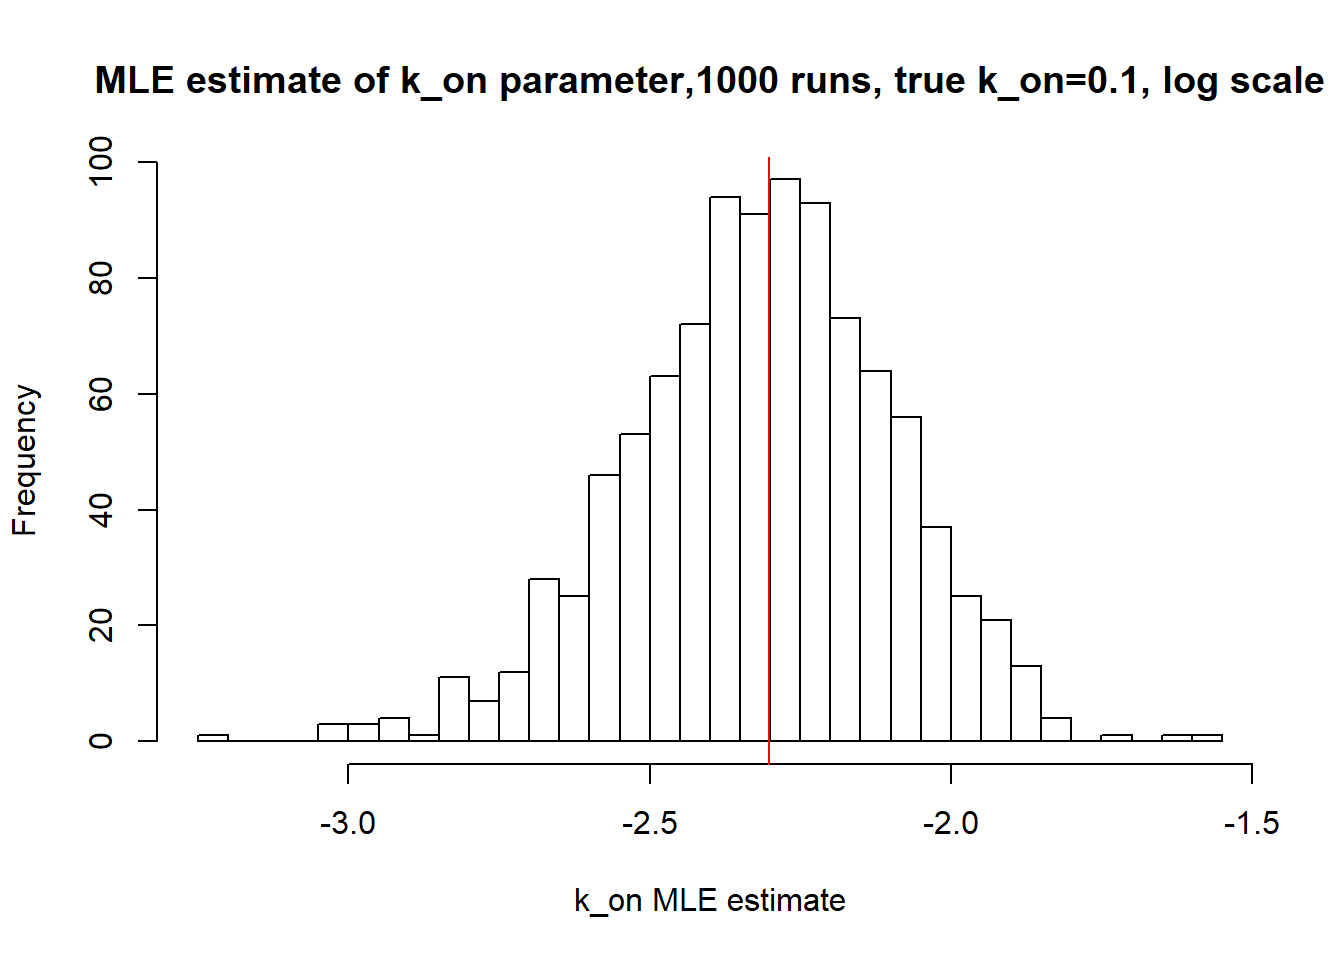
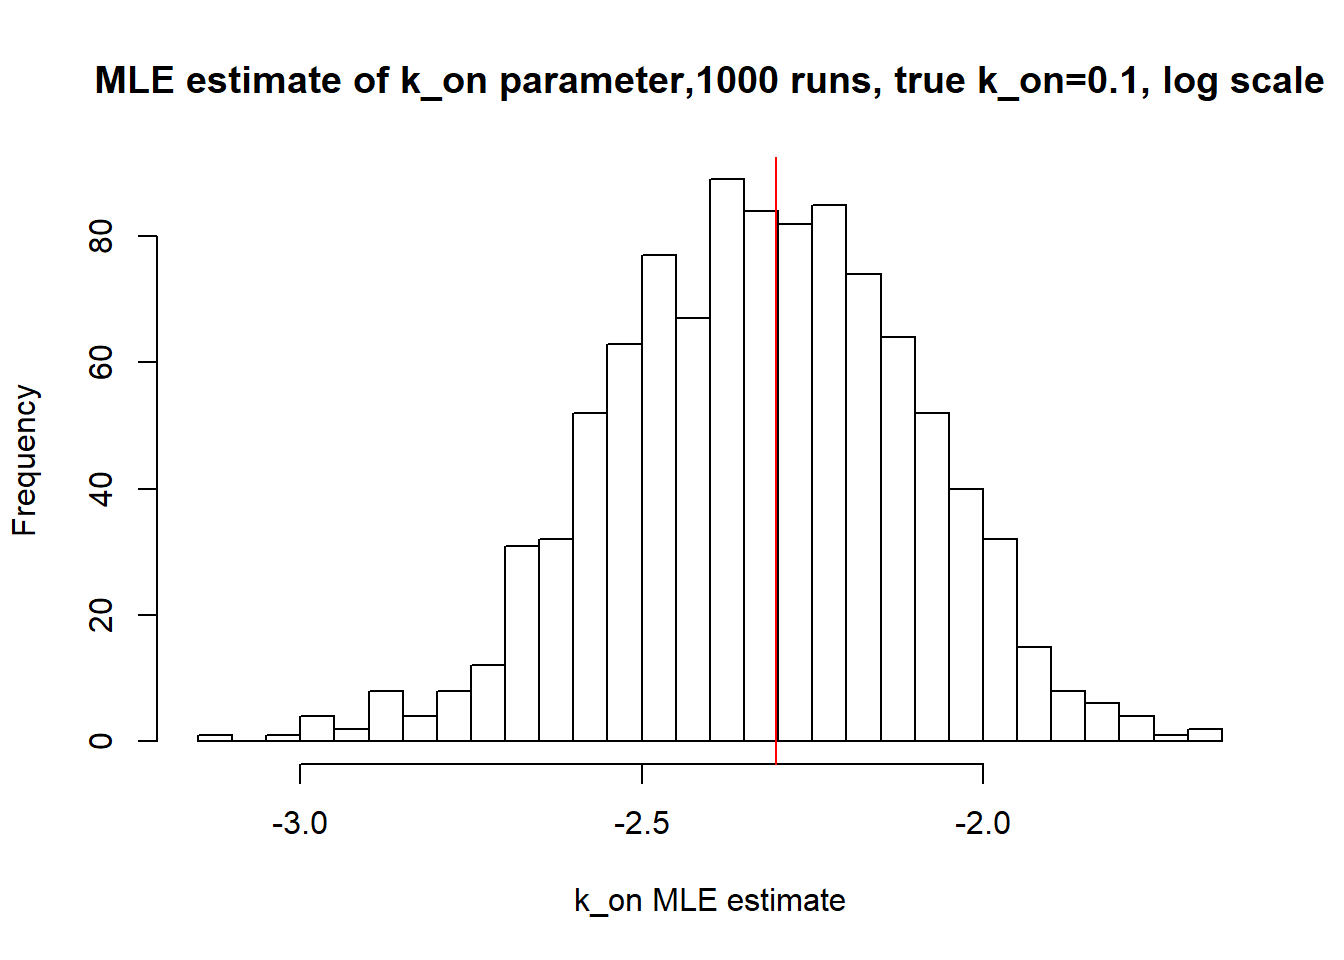
Build site.

diff --git a/docs/MLE_estimates.html b/docs/MLE_estimates.html
@@ -459,10 +459,10 @@ analysis/MLE.py
 <div class="panel panel-default">
 <div class="panel-heading">
 <p class="panel-title">
-<a data-toggle="collapse" data-parent="#workflowr-checks" href="#strongRepositoryversionstrongahrefhttpsgithubcomMargareth2407ThesissingleRNAtreed35b4d23e23c9e0aa3e093ec71a4104aa87ba75etargetblankd35b4d2a"> <span class="glyphicon glyphicon-ok text-success" aria-hidden="true"></span> <strong>Repository version:</strong> <a href="https://github.com/Margareth2407/Thesis_single_RNA/tree/d35b4d23e23c9e0aa3e093ec71a4104aa87ba75e" target="_blank">d35b4d2</a> </a>
+<a data-toggle="collapse" data-parent="#workflowr-checks" href="#strongRepositoryversionstrongahrefhttpsgithubcomMargareth2407ThesissingleRNAtreefca9dc316366c141a6f87451b73e5bd2da6a3c01targetblankfca9dc3a"> <span class="glyphicon glyphicon-ok text-success" aria-hidden="true"></span> <strong>Repository version:</strong> <a href="https://github.com/Margareth2407/Thesis_single_RNA/tree/fca9dc316366c141a6f87451b73e5bd2da6a3c01" target="_blank">fca9dc3</a> </a>
 </p>
 </div>
[2 lines of base64/hex data omitted]
 <div class="panel-body">
 <p>
 Great! You are using Git for version control. Tracking code development and connecting the code version to the results is critical for reproducibility. The version displayed above was the version of the Git repository at the time these results were generated. <br><br> Note that you need to be careful to ensure that all relevant files for the analysis have been committed to Git prior to generating the results (you can use <code>wflow_publish</code> or <code>wflow_git_commit</code>). workflowr only checks the R Markdown file, but you know if there are other scripts or data files that it depends on. Below is the status of the Git repository when the results were generated:
@@ -474,7 +474,6 @@ Ignored files:
     Ignored:    .Rproj.user/
     Ignored:    analysis/.RData
     Ignored:    analysis/.Rhistory
-    Ignored:    analysis/figure/
 
 Untracked files:
     Untracked:  analysis/MLE_bootstrap.py
@@ -512,44 +511,44 @@ There are no past versions. Publish this analysis with <code>wflow_publish()</co
 <div id="i-small-k_on-and-k_off-case" class="section level2">
 <h2>I) Small <span class="math inline">\(k_{on}\)</span> and <span class="math inline">\(k_{off}\)</span> case:</h2>
 <p><img src="figure/MLE_estimates.Rmd/unnamed-chunk-2-1.png" width="672" style="display: block; margin: auto;" /></p>
-<pre><code>[1] &quot;true k_on is 0.1; k_on mean 0.101 k_on median 0.1&quot;</code></pre>
+<pre><code>[1] &quot;true k_on is 0.1; k_on mean 0.1 k_on median 0.098&quot;</code></pre>
 <p><img src="figure/MLE_estimates.Rmd/unnamed-chunk-2-2.png" width="672" style="display: block; margin: auto;" /></p>
-<pre><code>[1] &quot;true k_off is 0.1; k_off mean 0.103 k_off median 0.1&quot;</code></pre>
+<pre><code>[1] &quot;true k_off is 0.1; k_off mean 0.101 k_off median 0.096&quot;</code></pre>
 <p><img src="figure/MLE_estimates.Rmd/unnamed-chunk-2-3.png" width="672" style="display: block; margin: auto;" /></p>
-<pre><code>[1] &quot;true k_r is 100; k_r mean 100.012 k_r median 99.961&quot;</code></pre>
+<pre><code>[1] &quot;true k_r is 100; k_r mean 99.956 k_r median 99.973&quot;</code></pre>
 <p><img src="figure/MLE_estimates.Rmd/unnamed-chunk-2-4.png" width="672" style="display: block; margin: auto;" /><img src="figure/MLE_estimates.Rmd/unnamed-chunk-2-5.png" width="672" style="display: block; margin: auto;" /><img src="figure/MLE_estimates.Rmd/unnamed-chunk-2-6.png" width="672" style="display: block; margin: auto;" /></p>
 <p>Small <span class="math inline">\(k_{on}\)</span> and <span class="math inline">\(k_{off}\)</span> leads to bimodal distribution. As we see from histograms, mean and median MLE estimates are centered around true value.</p>
 </div>
 <div id="ii-large-k_on-and-k_off-case" class="section level2">
 <h2>II) Large <span class="math inline">\(k_{on}\)</span> and <span class="math inline">\(k_{off}\)</span> case:</h2>
 <p><img src="figure/MLE_estimates.Rmd/unnamed-chunk-3-1.png" width="672" style="display: block; margin: auto;" /></p>
-<pre><code>[1] &quot;true k_on is 10; k_on mean 11.387 k_on median 9.717&quot;</code></pre>
+<pre><code>[1] &quot;true k_on is 10; k_on mean 11.6 k_on median 9.995&quot;</code></pre>
 <p><img src="figure/MLE_estimates.Rmd/unnamed-chunk-3-2.png" width="672" style="display: block; margin: auto;" /></p>
-<pre><code>[1] &quot;true k_off is 10; k_off mean 63.487 k_off median 9.119&quot;</code></pre>
+<pre><code>[1] &quot;true k_off is 10; k_off mean 61.625 k_off median 9.543&quot;</code></pre>
 <p><img src="figure/MLE_estimates.Rmd/unnamed-chunk-3-3.png" width="672" style="display: block; margin: auto;" /></p>
-<pre><code>[1] &quot;true k_r is 100; k_r mean 227.561 k_r median 97.168&quot;</code></pre>
+<pre><code>[1] &quot;true k_r is 100; k_r mean 224.246 k_r median 99.161&quot;</code></pre>
 <p><img src="figure/MLE_estimates.Rmd/unnamed-chunk-3-4.png" width="672" style="display: block; margin: auto;" /><img src="figure/MLE_estimates.Rmd/unnamed-chunk-3-5.png" width="672" style="display: block; margin: auto;" /><img src="figure/MLE_estimates.Rmd/unnamed-chunk-3-6.png" width="672" style="display: block; margin: auto;" /></p>
 <p>Large <span class="math inline">\(k_{on}\)</span> and <span class="math inline">\(k_{off}\)</span> case lead to Poisson or negative binomial distribution and as we can see parameters are not identifiable.</p>
 </div>
 <div id="iii-large-value-if-k_off-and-small-k_on-case" class="section level2">
 <h2>III) Large value if <span class="math inline">\(k_{off}\)</span> and small <span class="math inline">\(k_{on}\)</span> case:</h2>
 <p><img src="figure/MLE_estimates.Rmd/unnamed-chunk-4-1.png" width="672" style="display: block; margin: auto;" /></p>
-<pre><code>[1] &quot;true k_on is 1; k_on mean 0.988 k_on median 0.97&quot;</code></pre>
+<pre><code>[1] &quot;true k_on is 1; k_on mean 0.984 k_on median 0.959&quot;</code></pre>
 <p><img src="figure/MLE_estimates.Rmd/unnamed-chunk-4-2.png" width="672" style="display: block; margin: auto;" /></p>
-<pre><code>[1] &quot;true k_off is 10; k_off mean 41.022 k_off median 6.769&quot;</code></pre>
+<pre><code>[1] &quot;true k_off is 10; k_off mean 43.289 k_off median 7.079&quot;</code></pre>
 <p><img src="figure/MLE_estimates.Rmd/unnamed-chunk-4-3.png" width="672" style="display: block; margin: auto;" /></p>
-<pre><code>[1] &quot;true k_r is 100; k_r mean 342.379 k_r median 71.612&quot;</code></pre>
+<pre><code>[1] &quot;true k_r is 100; k_r mean 364.095 k_r median 75.34&quot;</code></pre>
 <p><img src="figure/MLE_estimates.Rmd/unnamed-chunk-4-4.png" width="672" style="display: block; margin: auto;" /><img src="figure/MLE_estimates.Rmd/unnamed-chunk-4-5.png" width="672" style="display: block; margin: auto;" /><img src="figure/MLE_estimates.Rmd/unnamed-chunk-4-6.png" width="672" style="display: block; margin: auto;" /></p>
 <p>k_on parameter being estimated correctly, while k_off and k_r are non-identifiable.</p>
 </div>
 <div id="iv-small-value-if-k_off-and-big-k_on" class="section level2">
 <h2>IV) Small value if <span class="math inline">\(k_{off}\)</span> and big <span class="math inline">\(k_{on}\)</span></h2>
 <p><img src="figure/MLE_estimates.Rmd/unnamed-chunk-5-1.png" width="672" style="display: block; margin: auto;" /></p>
-<pre><code>[1] &quot;true k_on is 10; k_on mean 16.4 k_on median 10.8&quot;</code></pre>
+<pre><code>[1] &quot;true k_on is 10; k_on mean 13.6 k_on median 10.288&quot;</code></pre>
 <p><img src="figure/MLE_estimates.Rmd/unnamed-chunk-5-2.png" width="672" style="display: block; margin: auto;" /></p>
-<pre><code>[1] &quot;true k_off is 1; k_off mean 6.449 k_off median 1.362&quot;</code></pre>
+<pre><code>[1] &quot;true k_off is 1; k_off mean 3.175 k_off median 1.237&quot;</code></pre>
 <p><img src="figure/MLE_estimates.Rmd/unnamed-chunk-5-3.png" width="672" style="display: block; margin: auto;" /></p>
-<pre><code>[1] &quot;true k_r is 100; k_r mean 101.573 k_r median 99.572&quot;</code></pre>
+<pre><code>[1] &quot;true k_r is 100; k_r mean 97.442 k_r median 100.491&quot;</code></pre>
 <p><img src="figure/MLE_estimates.Rmd/unnamed-chunk-5-4.png" width="672" style="display: block; margin: auto;" /><img src="figure/MLE_estimates.Rmd/unnamed-chunk-5-5.png" width="672" style="display: block; margin: auto;" /><img src="figure/MLE_estimates.Rmd/unnamed-chunk-5-6.png" width="672" style="display: block; margin: auto;" /></p>
 <p>Ref. <a href="https://www.nature.com/articles/s41586-018-0836-1" class="uri">https://www.nature.com/articles/s41586-018-0836-1</a></p>
 <br>
